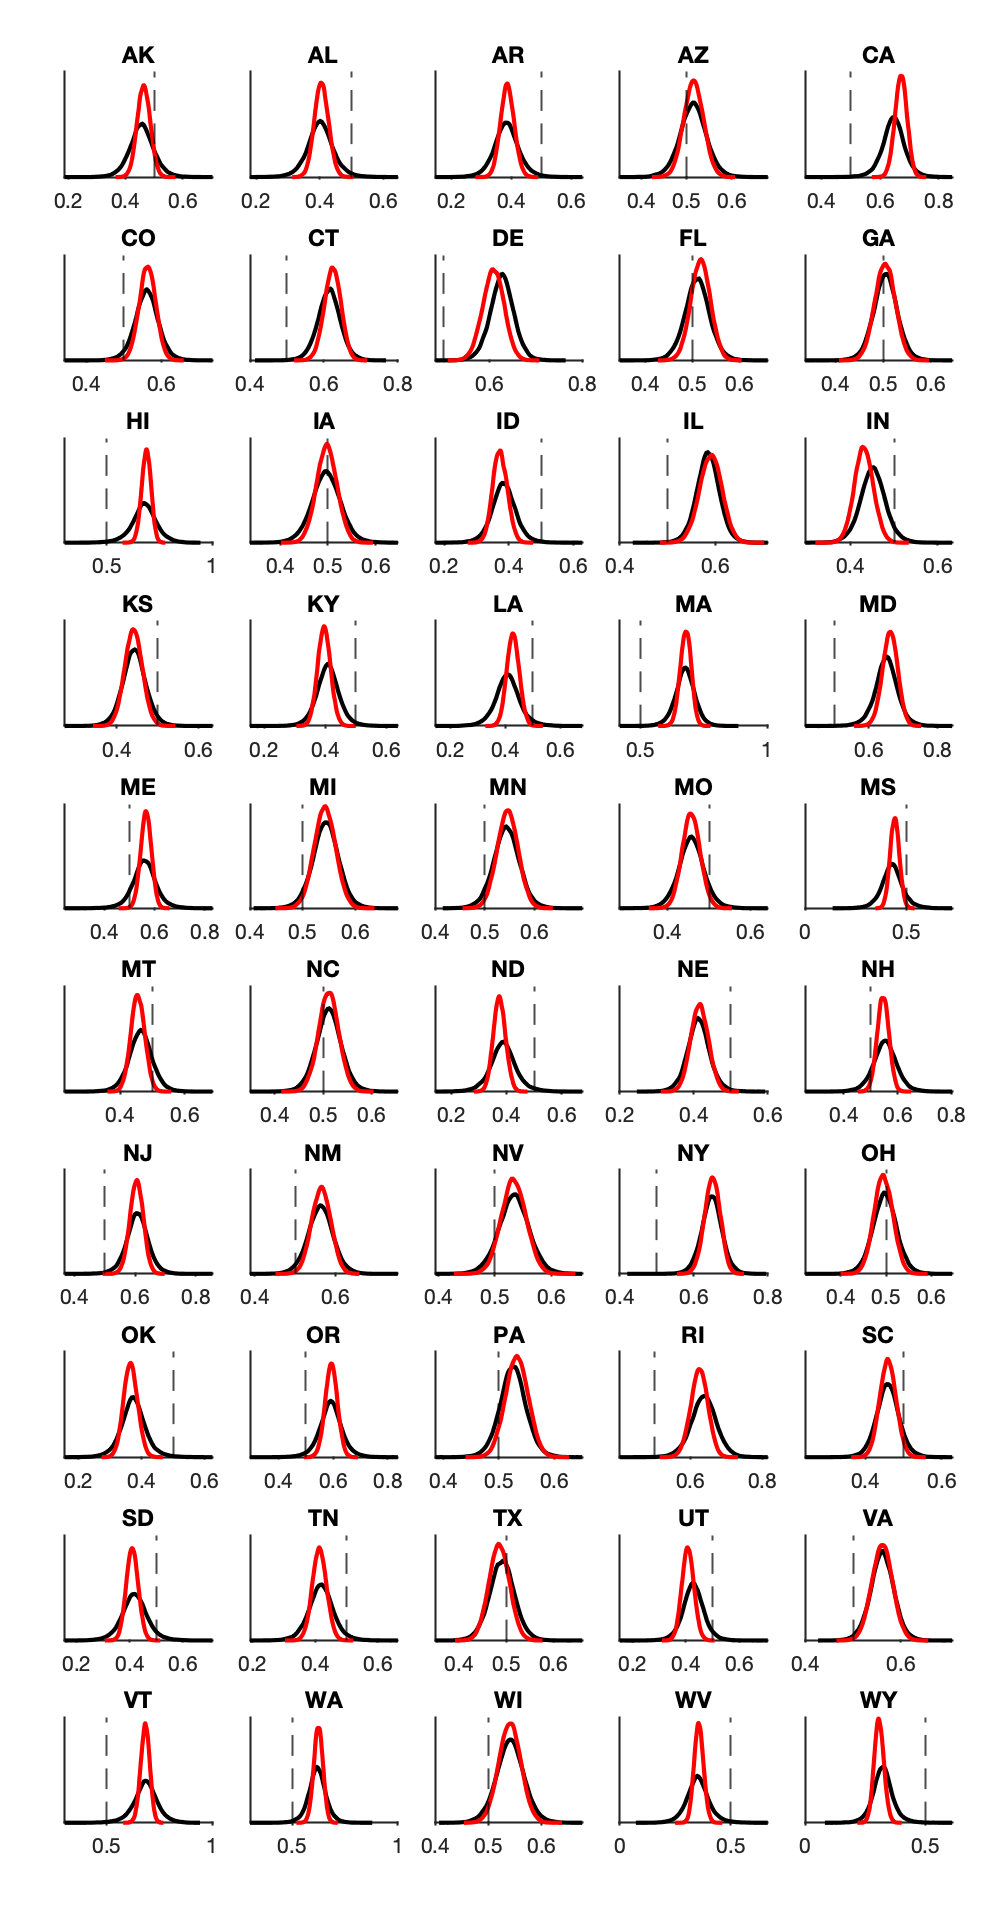
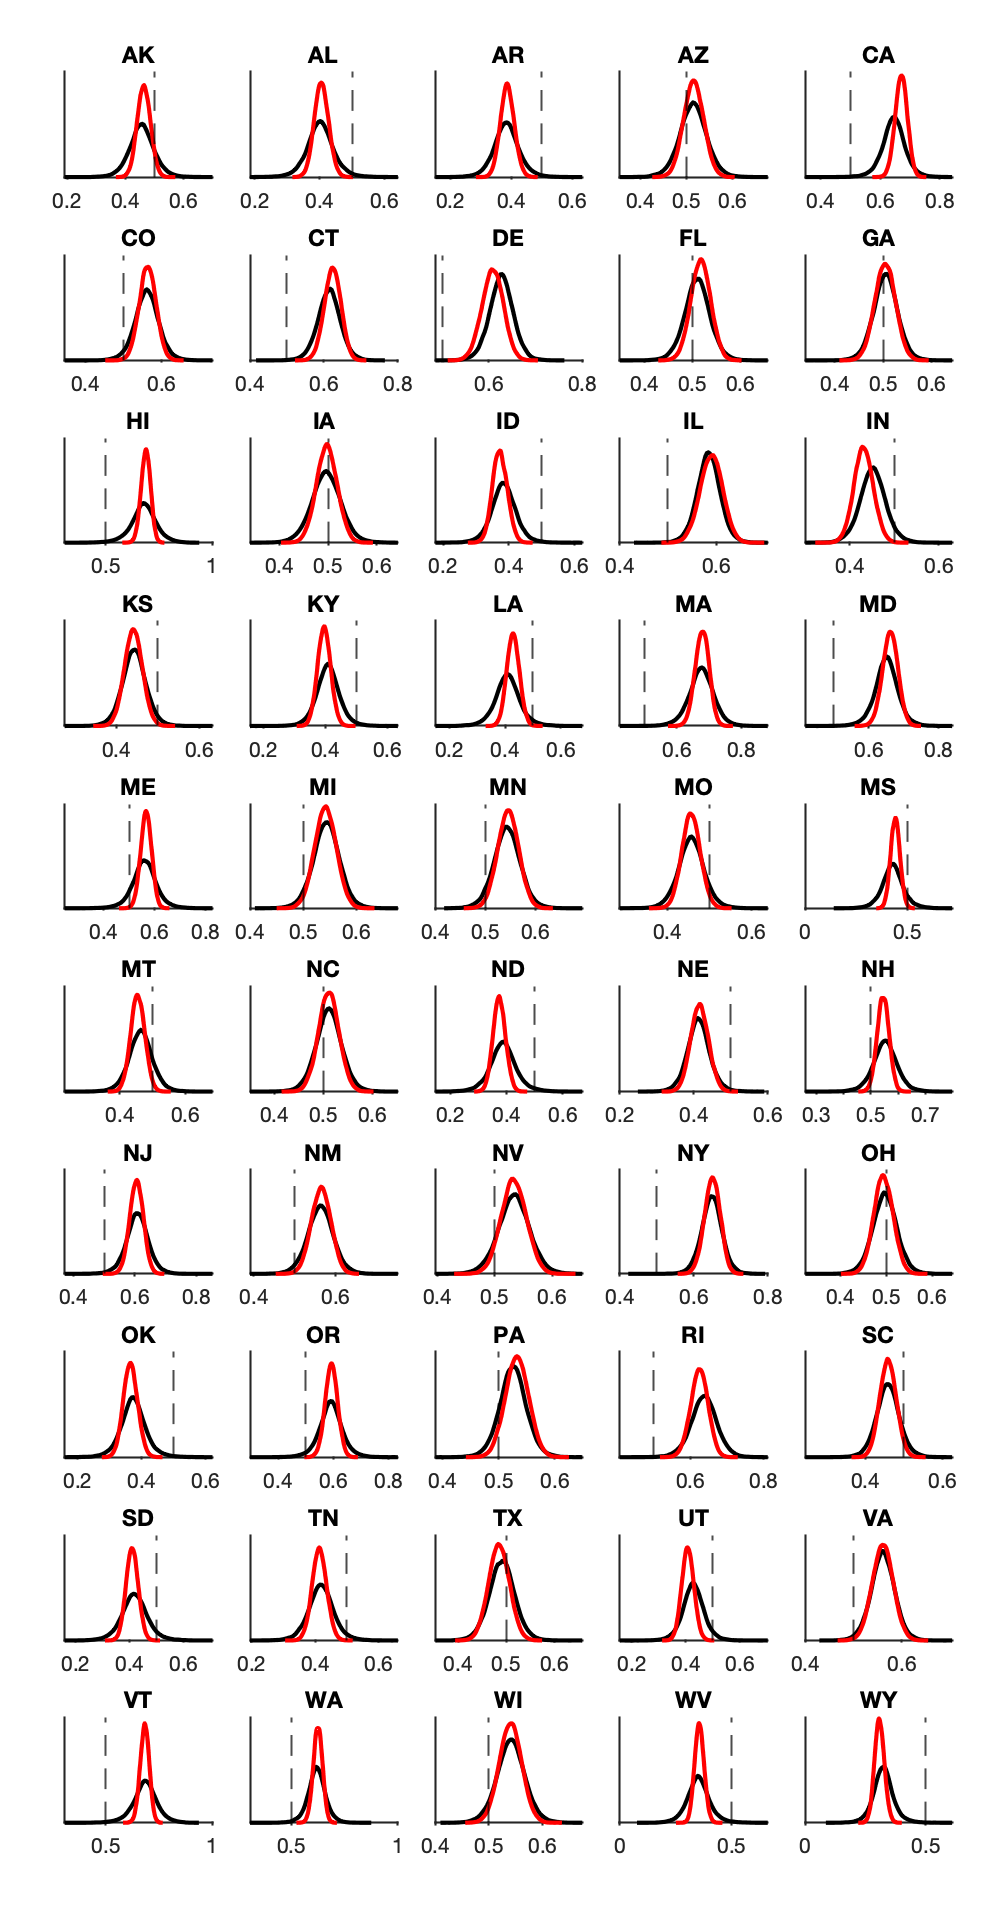
update figures; model recovery

diff --git a/compare_models.m b/compare_models.m
@@ -40,11 +40,11 @@ for ss = 1:length(stateNames)
     xline(.5, '--k', 'LineWidth', 1);
       
     % plot 538
-    [f,x]=ksdensity(tbl538.(stateNames{ss}));
+    [f,x]=ksdensity(tbl538.(stateNames{ss}), 'Kernel', 'epanechnikov');
     plot(x,f, '-k', 'LineWidth', 2);
     
     % plot economist
-    [f,x]=ksdensity(tblEcon.(stateNames{ss}));
+    [f,x]=ksdensity(tblEcon.(stateNames{ss}), 'Kernel', 'epanechnikov');
     plot(x,f, '-r', 'LineWidth', 2);
     
     title(stateNames{ss});
@@ -134,6 +134,62 @@ for ii = 1:(nComp^2); AX_Econ(ii).YLim = AX_538(ii).YLim;end
 
 saveas(f_538, './figures/compareMulti_538.png') 
 saveas(f_Econ, './figures/compareMulti_Econ.png') 
+
+
+
+%% compare model likelihoods
+
+
+b_538 = min(std(tbl538{1:39000,:}), iqr(tbl538{1:39000,:})/1.34).*(4/(52*nsims)).^(1/54);
+b_Econ = min(std(tblEcon{1:39000,:}), iqr(tblEcon{1:39000,:})/1.34).*(4/(52*nsims)).^(1/54);
+
+lik_538_538     = mvksdensity(tbl538{1:39000,:}, tbl538{39001:end,:}, 'bandwidth', b_538, 'Kernel', 'epanechnikov');
+lik_538_Econ    = mvksdensity(tbl538{1:39000,:}, tblEcon{39001:end,:}, 'bandwidth', b_538, 'Kernel', 'epanechnikov');
+lik_Econ_Econ   = mvksdensity(tblEcon{1:39000,:}, tblEcon{39001:end,:}, 'bandwidth', b_Econ, 'Kernel', 'epanechnikov');
+lik_Econ_538    = mvksdensity(tblEcon{1:39000,:}, tbl538{39001:end,:}, 'bandwidth', b_Econ, 'Kernel', 'epanechnikov');
+
+
+
+f_modelRec = figure('Renderer', 'painters', 'Position', [0 0 400 500]); hold on;
+tiledlayout('flow','TileSpacing', 'compact', 'Padding', 'compact');
+
+nexttile; hold on;
+histogram(log(1+lik_538_538), 'Normalization', 'pdf', 'DisplayStyle', 'stairs', 'EdgeColor', 'k', 'LineStyle', '-', 'LineWidth', 2)
+histogram(log(1+lik_538_Econ), 'Normalization', 'pdf', 'DisplayStyle', 'stairs', 'EdgeColor', 'k', 'LineStyle', '--', 'LineWidth', 2)
+histogram(log(1+lik_Econ_Econ), 'Normalization', 'pdf', 'DisplayStyle', 'stairs', 'EdgeColor', 'r', 'LineStyle', '-', 'LineWidth', 2)
+histogram(log(1+lik_Econ_538), 'Normalization', 'pdf', 'DisplayStyle', 'stairs', 'EdgeColor', 'r', 'LineStyle', '--', 'LineWidth', 2)
+
+legend({'P(538 | 538)', 'P(538 | Economist)', 'P(Economist | Economist)', 'P(Economist | 538)'}, 'Location', 'northwest')
+xticks([])
+yticks([])
+title('model recovery')
+xlabel('model loglik')
+ylabel('density')
+set(gca, 'TickDir', 'out', 'LineWidth', 1)
+
+
+
+nexttile; hold on;
+
+clear simDiff_538 simDiff_Econ 
+for ii = 1:1000
+    simDiff_538(ii) = nanmean(datasample(log(1+lik_538_538), 1000) - datasample(log(1+lik_Econ_538), 1000));
+    simDiff_Econ(ii) = nanmean(datasample(log(1+lik_Econ_Econ), 1000) - datasample(log(1+lik_538_Econ), 1000));
+end
+
+histogram(simDiff_538, 'DisplayStyle', 'stairs', 'EdgeColor', 'k', 'LineStyle', '-', 'LineWidth', 2)
+histogram(simDiff_Econ, 'DisplayStyle', 'stairs', 'EdgeColor', 'r', 'LineStyle', '-', 'LineWidth', 2)
+
+xline(0, '--k')
+legend({'(correct | 538)', '(correct | Economist)'}, 'Location', 'northeast')
+yticks([])
+ylabel('density')
+title('model selection')
+xlabel('loglik difference')
+
+
+saveas(f_modelRec, './figures/modelRecovery_538.png') 
+
 
 
 
